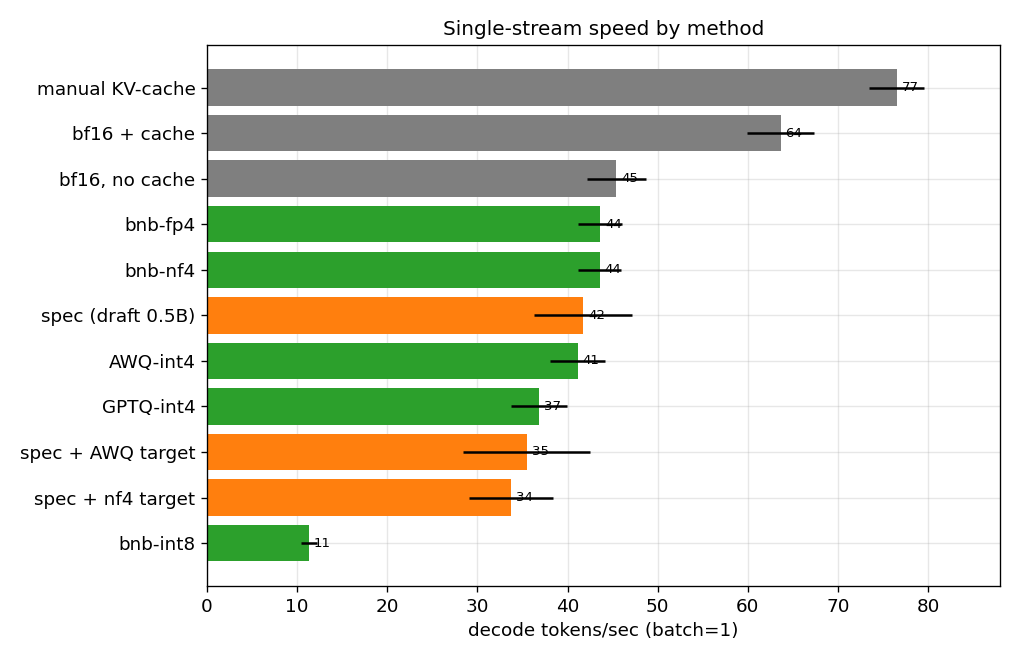
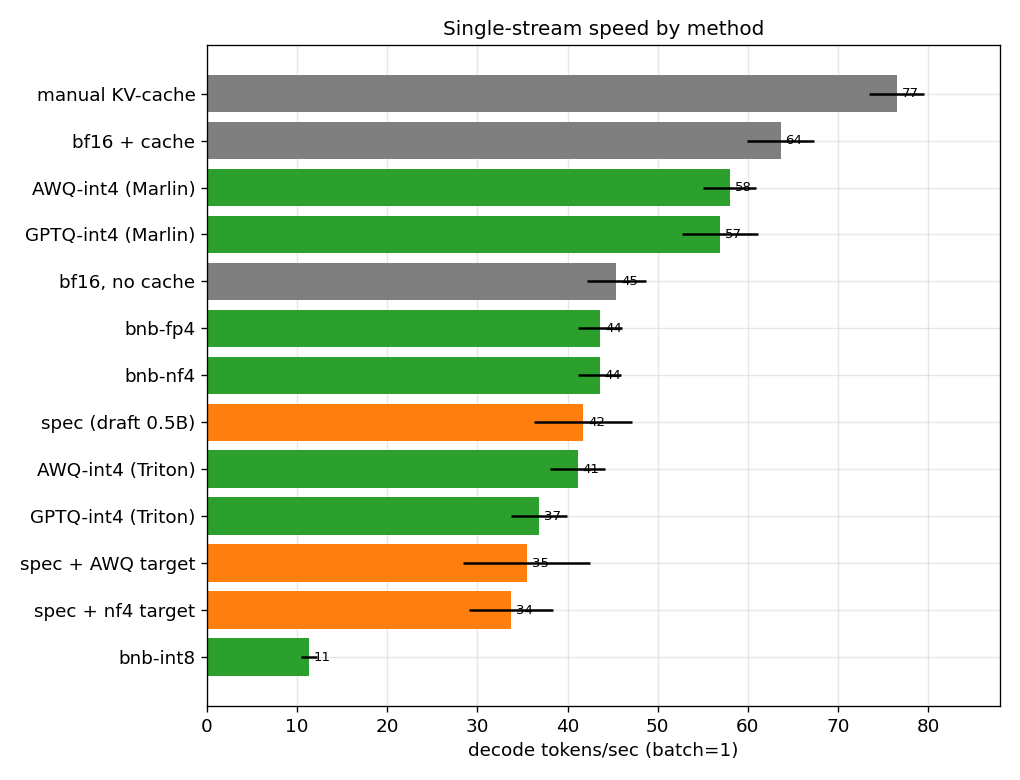
Add Marlin 4-bit re-measure: 4-bit beats bf16 on 7B with optimized kernels
Re-run AWQ/GPTQ-int4 with Marlin kernels (CUDA toolkit now installed) as
*_marlin configs alongside the Triton ones. This overturns the earlier
"quant = memory, not speed" conclusion, which was a Triton-kernel artifact:

  7B  : AWQ/GPTQ-Marlin 60-61 tok/s vs bf16 35  -> 1.7x faster, 5.6 vs 15.3 GB
  1.5B: AWQ/GPTQ-Marlin 57-58 tok/s vs bf16 64  -> 1.4x over Triton, near bf16

- benchmark_quant.py: --marlin flag (awq->marlin / gptq->marlin backend),
  kind gets _marlin suffix; Triton numbers untouched.
- plots.py: _quant_rows skips *_marlin so quant.png stays Triton-only.
- plotstyle.py: labels distinguish Triton vs Marlin variants.
- run_marlin.sh: launcher (sets CUDA_HOME), re-aggregates + re-plots.
- Drop stray cuda-keyring deb; gitignore *.deb and results/*.log.
- WORKLOG.md: kernel-dependent quant conclusion, Marlin marked done.

Changed region(s): [[0.0304, 0.0303, 1.0, 0.9697]]

diff --git a/scripts/benchmark_quant.py b/scripts/benchmark_quant.py
@@ -5,9 +5,10 @@ Two families of weight quantization, same generate path as the baseline:
     calibration-free, memory-first (often NOT faster than bf16).
   * pre-quantized checkpoints (awq / gptq-int4 / gptq-int8): load Qwen's
     published <model>-AWQ / -GPTQ-Int{4,8} repo. These use calibration and
-    kernel-optimized matmul. We force a Triton backend (gemm_triton / triton)
-    because the faster Marlin kernels need a CUDA toolkit (nvcc) not installed
-    here — so the absolute AWQ/GPTQ speed is a Triton-kernel lower bound.
+    kernel-optimized matmul. The default backend is Triton (gemm_triton /
+    triton), a no-nvcc lower bound on 4-bit speed; pass --marlin to use the
+    optimized Marlin kernels (needs a CUDA toolkit / nvcc to JIT-compile),
+    which on memory-bound decode make 4-bit faster than bf16, not just smaller.
 
 KV-cache is on, so the measured delta is attributable to the quantized weights.
 Pair with --quality to capture the perplexity cost (quantization is lossy).
@@ -41,11 +42,13 @@ def build_quant_config(mode: str) -> BitsAndBytesConfig:
     raise ValueError(f"unknown bnb quant mode: {mode}")
 
 
-def load_quant(base_model: str, quant: str):
+def load_quant(base_model: str, quant: str, *, marlin: bool = False):
     """Load the quantized model. Returns (model, tokenizer, actual_repo, backend).
 
     bnb modes quantize the base model in-place; awq/gptq load Qwen's published
-    pre-quantized checkpoint (derived by suffix) with a Triton matmul backend.
+    pre-quantized checkpoint (derived by suffix). Matmul backend is Triton by
+    default; marlin=True uses the optimized Marlin kernels (needs a CUDA toolkit
+    / nvcc to JIT-compile).
     """
     if quant in BNB_MODES:
         model, tok = load_model_and_tokenizer(
@@ -56,12 +59,14 @@ def load_quant(base_model: str, quant: str):
     if quant in PREQUANT_SUFFIX:
         repo = base_model + PREQUANT_SUFFIX[quant]
         if quant == "awq":
-            qc = AwqConfig(bits=4, group_size=128, backend="gemm_triton")
-            backend = "awq/gemm_triton"
+            be = "marlin" if marlin else "gemm_triton"
+            qc = AwqConfig(bits=4, group_size=128, backend=be)
+            backend = f"awq/{be}"
         else:
             bits = 8 if quant.endswith("int8") else 4
-            qc = GPTQConfig(bits=bits, backend="triton")
-            backend = f"gptq{bits}/triton"
+            be = "marlin" if marlin else "triton"
+            qc = GPTQConfig(bits=bits, backend=be)
+            backend = f"gptq{bits}/{be}"
         # Only `backend` is taken from this config; the rest is read from the
         # checkpoint's own quantization_config.
         model, tok = load_model_and_tokenizer(repo, quantization_config=qc, device_map="cuda")
@@ -79,6 +84,12 @@ def parse_args():
         help="bitsandbytes (int8/nf4/fp4) or a pre-quantized checkpoint "
              "(awq/gptq-int4/gptq-int8)",
     )
+    p.add_argument(
+        "--marlin",
+        action="store_true",
+        help="use optimized Marlin kernels for awq/gptq (needs CUDA toolkit); "
+             "default is the Triton backend",
+    )
     return p.parse_args()
 
 
@@ -88,8 +99,9 @@ def main():
 
     use_cache = True  # quantization is always benchmarked with the KV-cache on
 
-    print(f"loading model: {args.model}  quant={args.quant}")
-    model, tokenizer, repo, backend = load_quant(args.model, args.quant)
+    print(f"loading model: {args.model}  quant={args.quant}  marlin={args.marlin}")
+    model, tokenizer, repo, backend = load_quant(args.model, args.quant, marlin=args.marlin)
+    kind = f"quant_{args.quant}" + ("_marlin" if args.marlin and args.quant in PREQUANT_SUFFIX else "")
     gpu_name = torch.cuda.get_device_name(0)
     print(f"model loaded, quant={args.quant}, repo={repo}, backend={backend}, gpu={gpu_name}")
 
@@ -118,7 +130,7 @@ def main():
         repeats=args.repeats,
         run_one=run_one,
         tokenizer=tokenizer,
-        kind=f"quant_{args.quant}",
+        kind=kind,
         model_id=args.model,
         gpu=gpu_name,
         gen_settings=gen_settings,

diff --git a/scripts/plots.py b/scripts/plots.py
@@ -75,8 +75,8 @@ def _quant_rows(rows):
     """One row per weight format at batch=1 (bf16 baseline + quant_*)."""
     seen = {}
     for x in rows:
-        if x["batch"] != 1:
-            continue
+        if x["batch"] != 1 or x["config"].endswith("_marlin"):
+            continue  # Marlin variants compared separately (methods/vs_baseline)
         if x["config"] == "baseline_cache" or x["config"].startswith("quant_"):
             seen.setdefault(x["format"], x)
     return [seen[f] for f in FORMAT_ORDER if f in seen]

diff --git a/scripts/plotstyle.py b/scripts/plotstyle.py
@@ -23,8 +23,10 @@ LABEL = {
     "quant_int8": "bnb-int8",
     "quant_nf4": "bnb-nf4",
     "quant_fp4": "bnb-fp4",
-    "quant_awq": "AWQ-int4",
-    "quant_gptq-int4": "GPTQ-int4",
+    "quant_awq": "AWQ-int4 (Triton)",
+    "quant_gptq-int4": "GPTQ-int4 (Triton)",
+    "quant_awq_marlin": "AWQ-int4 (Marlin)",
+    "quant_gptq-int4_marlin": "GPTQ-int4 (Marlin)",
     "spec": "spec (draft 0.5B)",
     "spec_nf4": "spec + nf4 target",
     "spec_awq": "spec + AWQ target",

diff --git a/WORKLOG.md b/WORKLOG.md
@@ -1,0 +1,54 @@
+# WORKLOG — состояние и следующие шаги
+
+Живой лог для продолжения работы (читать после сжатия контекста). План экспериментов — в `EXPERIMENT_PLAN.md`.
+
+## Где мы сейчас (одним абзацем)
+Экспериментальная часть диплома по оптимизации инференса **полностью готова и закоммичена** на ветке `methods-study` (база — `rollback-pr2`, не `main`: от направления `main` пользователь сознательно отказался, брали оттуда только проверенные механики). Перемер 4-бит с ядрами **Marlin** **выполнен и закоммичен** (см. вывод ниже — он переворачивает прежнее «квант=только память»). Главный незакрытый кусок проекта — **текст диплома** (ещё не начат).
+
+## Окружение (важно для запуска)
+- Машина: Windows + WSL2 Ubuntu, RTX 3090 24GB. venv: `.venv` (uv). torch 2.11.0+cu128, transformers 5.8.1.
+- **CUDA toolkit установлен**: `/usr/local/cuda-12.8` (nvcc 12.8) — поставили ради Marlin. В PATH глобально НЕ добавлен. Для Marlin-прогонов выставлять: `export CUDA_HOME=/usr/local/cuda-12.8; export PATH=/usr/local/cuda-12.8/bin:$PATH`.
+- Доп. зависимости в venv: `bitsandbytes 0.49`, `gptqmodel 7.0`, `optimum 2.1`, `lm-eval 0.4.12`, `matplotlib`, `pandas` (в pyproject). `hf_transfer`/`autoawq` НЕ нужны (autoawq удалён; transformers 5.8 грузит AWQ через gptqmodel).
+- Модели в HF-кэше: Qwen2.5-0.5B/1.5B/3B/7B-Instruct + AWQ/GPTQ-Int4/Int8 чекпойнты 1.5B и 7B.
+- **Загрузки HF капризят** на больших файлах: `HF_XET_HIGH_PERFORMANCE=1` стопорит → качать дефолтным `snapshot_download` (без env).
+
+## Карта кода (scripts/)
+- Хелперы: `data.py`, `modeling.py`, `timing.py` (CUDA-events, finish_measure / finish_measure_blocks / finish_measure_batch), `decode.py`, `quality.py` (perplexity), `summary.py` (повторы→mean±std), `runner.py`, `cli.py`, `env.py` (gpu temp/clock), `plotstyle.py`.
+- Методы: `benchmark_baseline.py` (`--no-cache`), `manual_kv_loop.py`, `benchmark_quant.py` (`--quant int8/nf4/fp4/awq/gptq-int4/gptq-int8`, `--marlin`), `benchmark_spec.py` (draft + UAD при разном vocab + `--prompt-lookup-tokens`), `benchmark_batch.py` (`--batch-size`, left-pad).
+- Оркестрация/анализ: `run_matrix.py` (драйвер, `--only/--skip-cells/--cell-timeout`), `aggregate.py` (таблица, джойн качества по (модель,формат)), `plots.py` (methods/quant/batch/pareto), `plots_methods.py` (vs_baseline/spec_variants/length), `check_fidelity.py`.
+- Лаунчеры: `run_all.sh`, `resume_7b.sh`, `run_night.sh`, `run_batch_dense.sh`, `run_marlin.sh`.
+- Общие флаги: `--limit 40 --repeats 3 --max-new-tokens 256 --fixed-length`. Результаты: `results/qwen1.5b/`, `results/qwen7b/`, `results/qwen3b/`, `results/length_sweep/{qwen1.5b,qwen7b}/`. Per-prompt `.jsonl` в gitignore; summary `.json` + `plots/*.png` коммитятся.
+
+## Что сделано (методы × 1.5B и 7B)
+Baseline(cache/nocache), manual_kv, квант (bnb int8/nf4/fp4 + AWQ/GPTQ-int4 на Triton), спек (draft 0.5B; на 7B через UAD из-за разного vocab 152064 vs 151936), батчинг (sweep {1,2,4,8,16,32}), комбо (nf4/awq + spec), качество (MMLU/GSM8K/perplexity, только 7B), length-sweep (128/256/512/1024), 3B vanilla-спек.
+
+### Ключевые выводы (чтобы не переоткрывать)
+- **KV-cache:** всегда выигрывает, эффект растёт с длиной — 7B: ×1.5(128т)→×5.0(1024т); ×2.3 на 256т.
+- **Квантизация — ЗАВИСИТ ОТ ЯДРА (ключевой нюанс диплома):**
+  - На **Triton/bnb** 4-бит — выигрыш только по ПАМЯТИ, не по скорости: 7B nf4 39 ≈ bf16 37 tok/s при 5.7 vs 15.3GB; на 1.5B 4-бит даже *медленнее* bf16; int8 всегда самый медленный (~10–20 tok/s, LLM.int8).
+  - На **оптимизированных ядрах Marlin** 4-бит даёт И память, И скорость. **7B: AWQ/GPTQ-Marlin 60–61 tok/s против bf16 35 → ×1.7 быстрее** при 5.6 vs 15.3GB (×2.7 меньше). 1.5B: Marlin 57–58 почти догоняет bf16 64 (×1.4 к Triton), но не обгоняет — маленькая модель меньше упирается в bandwidth.
+  - Вывод: «квант = только память» был **артефактом Triton-ядра**. Правильный вывод: на memory-bound декоде 7B+ 4-бит+Marlin — лучший single-stream выбор (и память, и скорость).
+  - Качество (лоссы 4-бит): int8 ≈ без потерь; 4-бит −0.3 ppl / −1–2% MMLU (gptq-int4 заметно хуже по GSM8K: 0.675 vs 0.76). Marlin не меняет качество (то же AWQ/GPTQ, иное ядро).
+- **Батчинг:** главный рычаг throughput, почти линейно до b32 (7B bf16 37→688, awq→650, nf4→442); 4-бит влезает в ~6 vs ~16GB.
+- **Спек-декодинг:** НЕ окупается на 3090+HF для ≤7B ни при каком сетапе (1.5B/3B vanilla, 7B UAD, +квант) — overhead draft+фреймворка > экономии. prompt-lookup ≈ baseline (нет draft-оверхеда). Lossless подтверждён в fp32. Выигрыш требует EAGLE/Medusa-голов, либо target 70B+, либо vLLM.
+- **Комбинации не аддитивны:** quant+spec медленнее каждого по отдельности.
+- **Marlin (полный перемер, закоммичен):** см. блок «Квантизация» выше. 7B AWQ/GPTQ-Marlin 60–61 tok/s обгоняют bf16 35 (×1.7); 1.5B 57–58 почти догоняют bf16 64.
+
+## Marlin: ВЫПОЛНЕНО
+- Код: `benchmark_quant.py --marlin` (AWQ→backend `marlin`, GPTQ→`marlin`; kind получает суффикс `_marlin`, Triton-числа НЕ трогаются). `plots.py` `_quant_rows` пропускает `*_marlin` (чтобы quant.png не слипался); `plotstyle.py` подписи различают Triton/Marlin. Лаунчер `run_marlin.sh` (внутри выставлен CUDA_HOME).
+- Результаты записаны: `results/{qwen1.5b,qwen7b}/quant_{awq,gptq-int4}_marlin_*.json`, таблицы+графики пере-построены. Всё закоммичено.
+- Повторить при нужде: `bash scripts/run_marlin.sh` (~35 мин, ядро закэшировано → загрузка быстрая).
+
+## Следующие шаги (по порядку)
+1. ~~Завершить Marlin~~ — **сделано и закоммичено.**
+2. ~~Почистить `cuda-keyring_*.deb`~~ — **удалён; `*.deb` и `results/*.log` в .gitignore.**
+3. **(опц.) EAGLE для спека** — гейт: есть ли готовая EAGLE-2/3 голова под Qwen2.5-7B (искать на HF). Если есть → запускать через vLLM (не HF-харнесс; отдельная точка «SOTA-спек»). Если нет (обучать) — вне объёма.
+4. **ТЕКСТ ДИПЛОМА — главный остаток.** Тема: «Методы оптимизации производительности инференса глубоких нейросетей», магистерский, новизна не нужна, упор на выводы/рекомендации. Дедлайн был 10 июня — пользователь сказал «забудь про дедлайн». Структура: введение / обзор методов (+roofline-постановка) / методика (харнесс, метрики, железо) / результаты (наши таблицы+графики) / выводы + матрица рекомендаций. Писать «под руководством пользователя».
+
+## Открытые вопросы к пользователю
+- **Формат текста: Word (.docx) или LaTeX?** и **требования вуза** (ГОСТ/шаблон/объём) — НЕ выяснены, нужны до старта текста.
+- PR-workflow: ветка `methods-study` закоммичена локально, **не запушена и не влита в main**. Пушить/PR — по слову пользователя.
+
+## Git
+- Ветка `methods-study`, впереди `main`, не запушена.
+- Marlin-правки закоммичены (`benchmark_quant.py`, `plots.py`, `plotstyle.py`, `run_marlin.sh`, `WORKLOG.md`, результаты+графики). Дефолт без `--marlin` не изменён (Triton остаётся).
